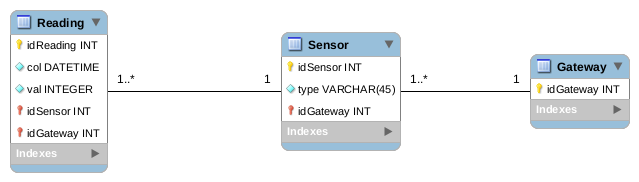
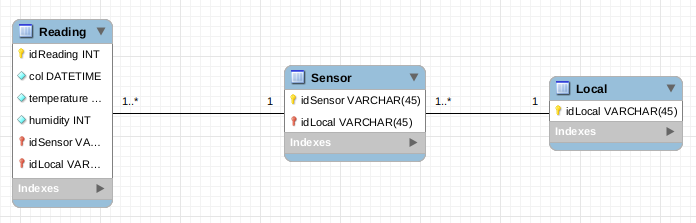
update

Changed region(s): [[0.0, 0.0549, 1.0, 0.9615]]

diff --git a/app.py b/app.py
@@ -7,66 +7,60 @@ from sqlalchemy.ext.automap import automap_base
 from sqlalchemy.orm import sessionmaker
 import json
 
-#DB credentials
+# DB credentials
 user_mysql = sys.argv[1]
 pass_mysql = sys.argv[2]
 model = sys.argv[3]
-create = sys.argv[4]
 
-#DB access
+# DB access
 engine = create_engine("mysql+mysqlconnector://" + user_mysql + ":" + pass_mysql + "@localhost:3306/" + model)
 Session = sessionmaker(bind=engine)
 Base = automap_base()
 Base.prepare(engine, reflect=True)
 
-#DB tables
-Gateway = Base.classes.Gateway
+# DB tables
+Local = Base.classes.Local
 Sensor = Base.classes.Sensor
 Reading = Base.classes.Reading
 
-#MQTT definitions
+# MQTT definitions
 client_name = socket.gethostname()
 client = mqtt.Client(client_name)
-broker = "localhost"
+broker = sys.argv[4]
 topic = sys.argv[5]
 
-#mosquitto_pub -m '{"idGateway":1,"idSensor":1,"val":23,"datetime":"2021-03-14 13:07:08.104114"}' -t 'SMQG'
+
+# mosquitto_pub -h mqtt.sj.ifsc.edu.br -m '{"idLocal":"local1","idSensor":"saca1","temperature":23,"humidity":25,"datetime":"2021-03-14 13:07"}' -t 'Empresa1'
 def on_message(client, userdata, message):
     message_rcv = str(message.payload.decode("utf-8"))
     print("message received ", message_rcv)
-    # print("message topic=", message.topic)
-    # print("message qos=", message.qos)
-    # print("message retain flag=", message.retain)
-
     message_json = json.loads(message_rcv)
     reading = Reading()
     dump_json(reading, message_json)
-    print(reading.idGateway)
-    print(reading.idSensor)
-    print(reading.val)
-    print(reading.col)
+    gateway = sessionSQL.query(Local).filter(Local.idLocal == reading.idLocal).first()
+    if gateway is None:
+        gateway = Local()
+        gateway.idLocal = reading.idLocal
+        sessionSQL.add(gateway)
+
+    sensor = sessionSQL.query(Sensor)\
+        .filter(Sensor.idSensor == reading.idSensor, Sensor.idLocal == reading.idLocal).first()
+    if sensor is None:
+        sensor = Sensor()
+        sensor.idSensor = reading.idSensor
+        sensor.idLocal = reading.idLocal
+        sessionSQL.add(sensor)
+
     sessionSQL.add(reading)
     sessionSQL.commit()
 
 
 def dump_json(reading, message_json):
-    reading.idGateway = message_json["idGateway"]
+    reading.idLocal = message_json["idLocal"]
     reading.idSensor = message_json["idSensor"]
-    reading.val = message_json["val"]
+    reading.temperature = message_json["temperature"]
+    reading.humidity = message_json["humidity"]
     reading.col = message_json["datetime"]
-
-
-def create_db():
-    gateway = Gateway()
-    gateway.idGateway = 1
-    sensor = Sensor()
-    sensor.idGateway = 1
-    sensor.idSensor = 1
-    sensor.type = "DHT11"
-    sessionSQL.add(gateway)
-    sessionSQL.add(sensor)
-    sessionSQL.commit()
-    sessionSQL.close()
 
 
 def exit_handler(sig=None, frame=None):
@@ -83,13 +77,11 @@ def start_client():
     client.loop_forever()
 
 
-#Run syntax:
-#python3 app.py <mysql-user> <mysql-pass> <mysql-model> <create-stub-gateway&sensor> <mqtt-topic>
-#Ex:
-#python3 app.py guilherme password smqg False SMQG
+# Run syntax:
+# python3 app.py <mysql-user> <mysql-pass> <mysql-model> <mqtt-broker> <mqtt-topic>
+# Ex:
+# python3 app.py guilherme password smqg SMQG
 if __name__ == '__main__':
-    if create == 'True':
-        create_db()
     sessionSQL = Session()
     signal.signal(signal.SIGINT, exit_handler)
     start_client()
